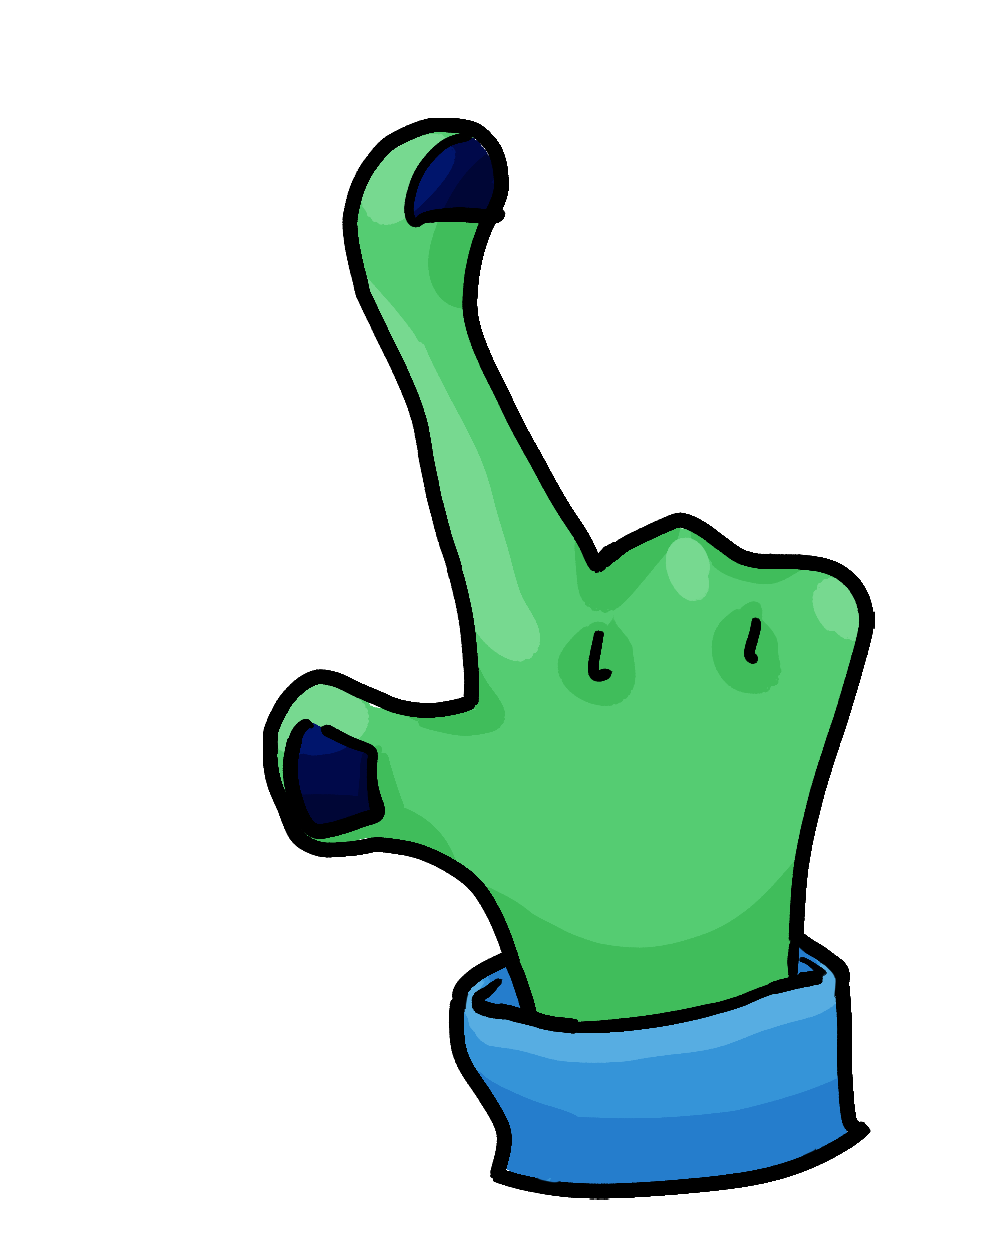
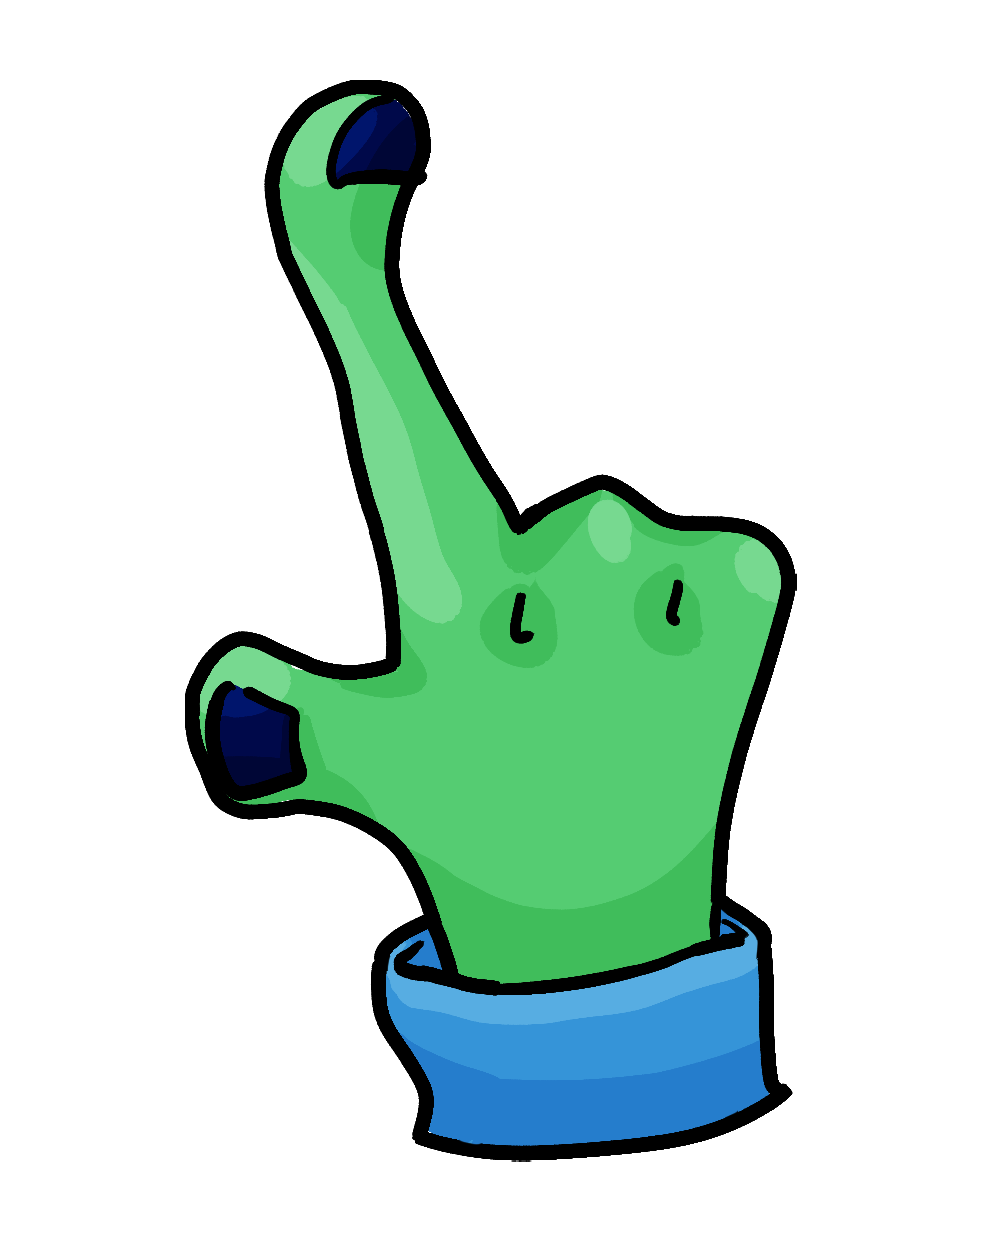
Grab cursor

Changed region(s): [[0.1835, 0.0612, 0.9174, 0.9791], [0.581, 0.5201, 0.6422, 0.5507]]

diff --git a/Assets/GMTK2025/Scripts/Ships/ShipDragAndDrop.cs b/Assets/GMTK2025/Scripts/Ships/ShipDragAndDrop.cs
@@ -84,6 +84,14 @@ public class ShipDragAndDrop : MonoBehaviour
         {
             OnSelect(ship);
         }
+        if (hoveringOverShip)
+        {
+            customCursor.ChangeCursorSprite(1);
+        }
+        else
+        {
+            customCursor.ChangeCursorSprite(0);
+        }
         if (draggedShip)
         {
             OnDragging();
@@ -136,7 +144,7 @@ public class ShipDragAndDrop : MonoBehaviour
 
     private void OnDragging()
     {
-        customCursor.ChangeCursorSprite(1);
+        customCursor.ChangeCursorSprite(2);
 
         if (
                 orbitController.PickUnlockedOrbitWithMouse(
@@ -204,8 +212,6 @@ public class ShipDragAndDrop : MonoBehaviour
 
     private void OnDeselect()
     {
-        customCursor.ChangeCursorSprite(0);
-
         if (draggedShip && draggedShip.Orbit && targetOrbit)
         {
             if (draggedShip.Orbit != targetOrbit)

diff --git a/Assets/GMTK2025/Scripts/CustomCursor/CustomCursor.cs b/Assets/GMTK2025/Scripts/CustomCursor/CustomCursor.cs
@@ -43,7 +43,7 @@ public class CustomCursor : MonoBehaviour
     {
         if (TargetMode)
         {
-            cursorImage.sprite = cursorSprites[2];
+            cursorImage.sprite = cursorSprites[3];
             return;
         }
 
